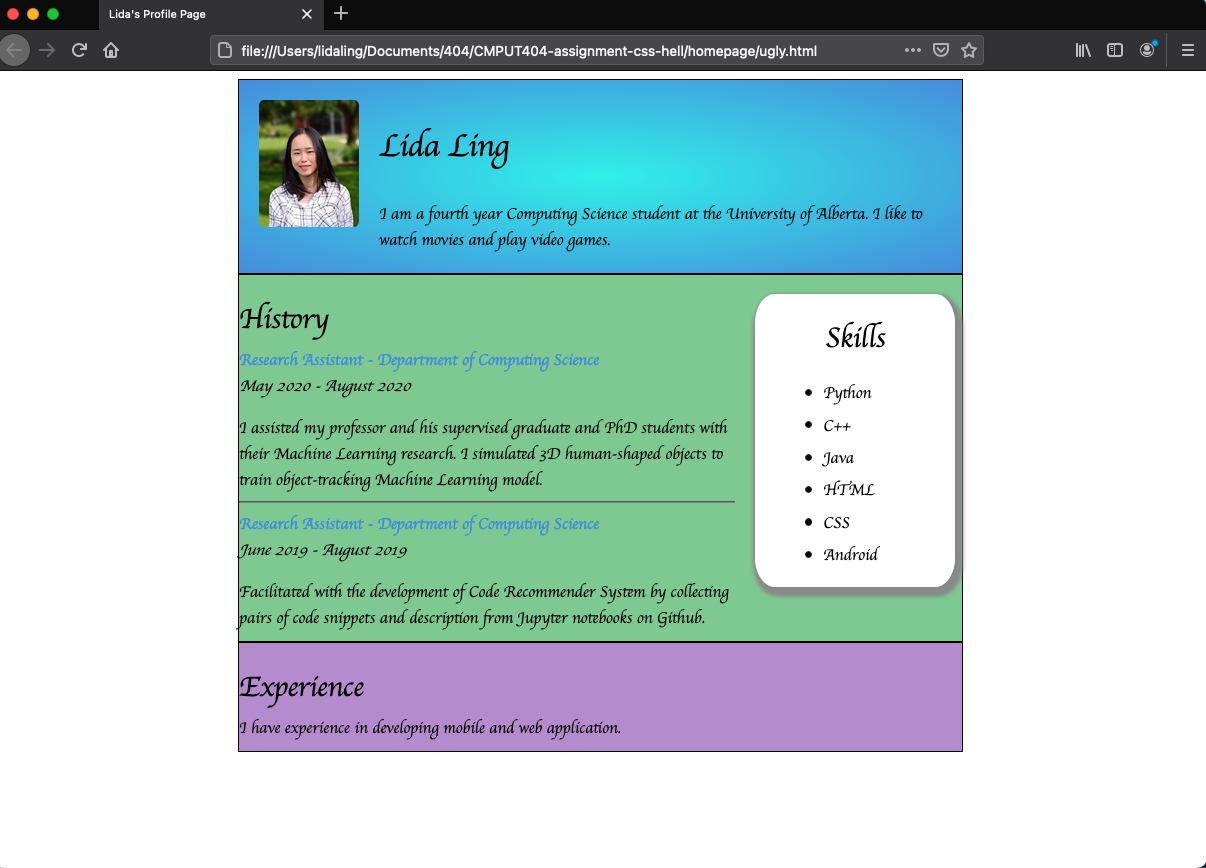
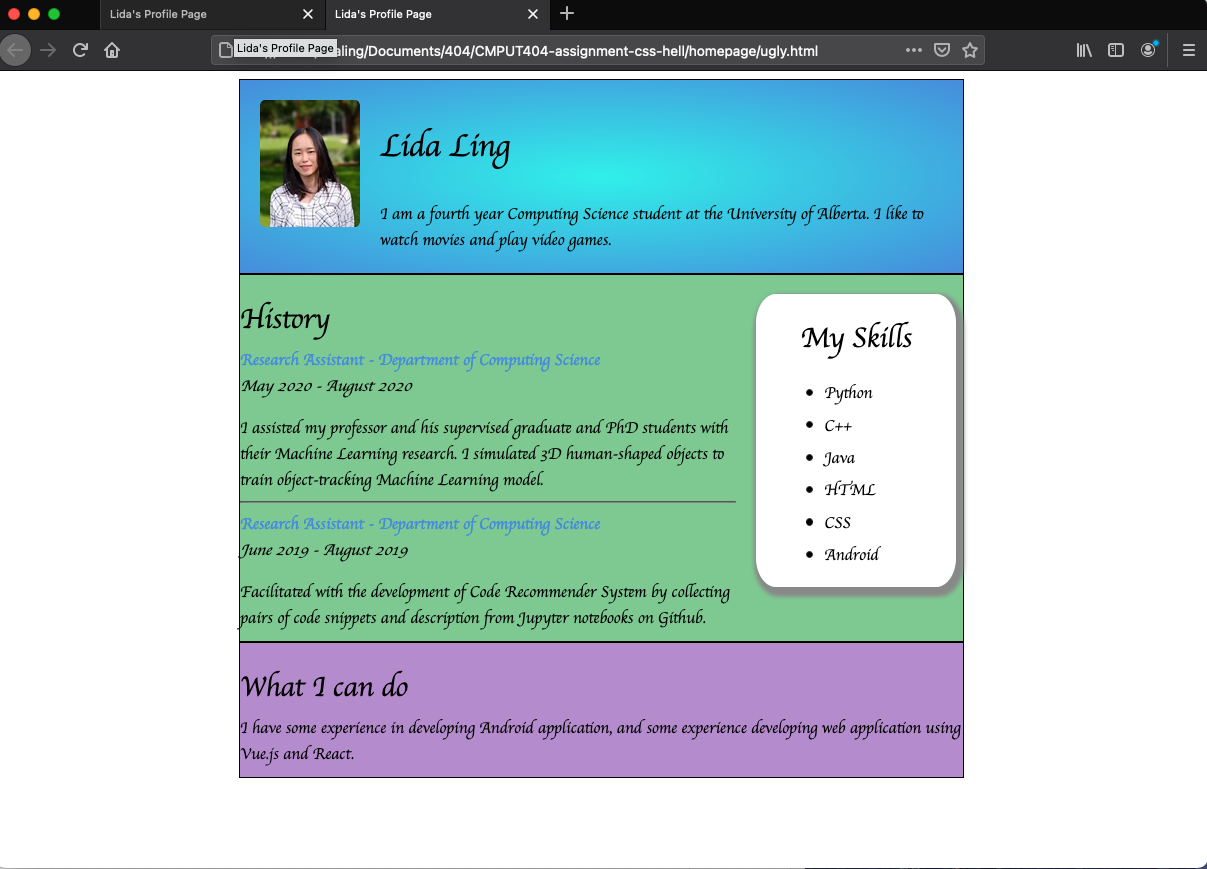
update content

diff --git a/homepage/good.html b/homepage/good.html
@@ -22,7 +22,7 @@
 		</div>
 		<div class="sidebar">
 			<div class="skills">
-				Skills
+				My Skills
 			</div>
 			<div>
 				<ul>
@@ -62,10 +62,10 @@
 		</div>
 		<div class="experience">
 			<div class="section-title">
-				Experience
+				What I can do
 			</div>
 			<div class="section-content">
-				I have experience in developing mobile and web application.
+				I have some experience in developing Android application, and some experience developing web application using Vue.js and React.
 			</div>
 		</div>
 

diff --git a/homepage/ugly.html b/homepage/ugly.html
@@ -22,7 +22,7 @@
 		</div>
 		<div class="sidebar">
 			<div class="skills">
-				Skills
+				My Skills
 			</div>
 			<div>
 				<ul>
@@ -62,10 +62,10 @@
 		</div>
 		<div class="experience">
 			<div class="section-title">
-				Experience
+				What I can do
 			</div>
 			<div class="section-content">
-				I have experience in developing mobile and web application.
+				I have some experience in developing Android application, and some experience developing web application using Vue.js and React.
 			</div>
 		</div>
 
